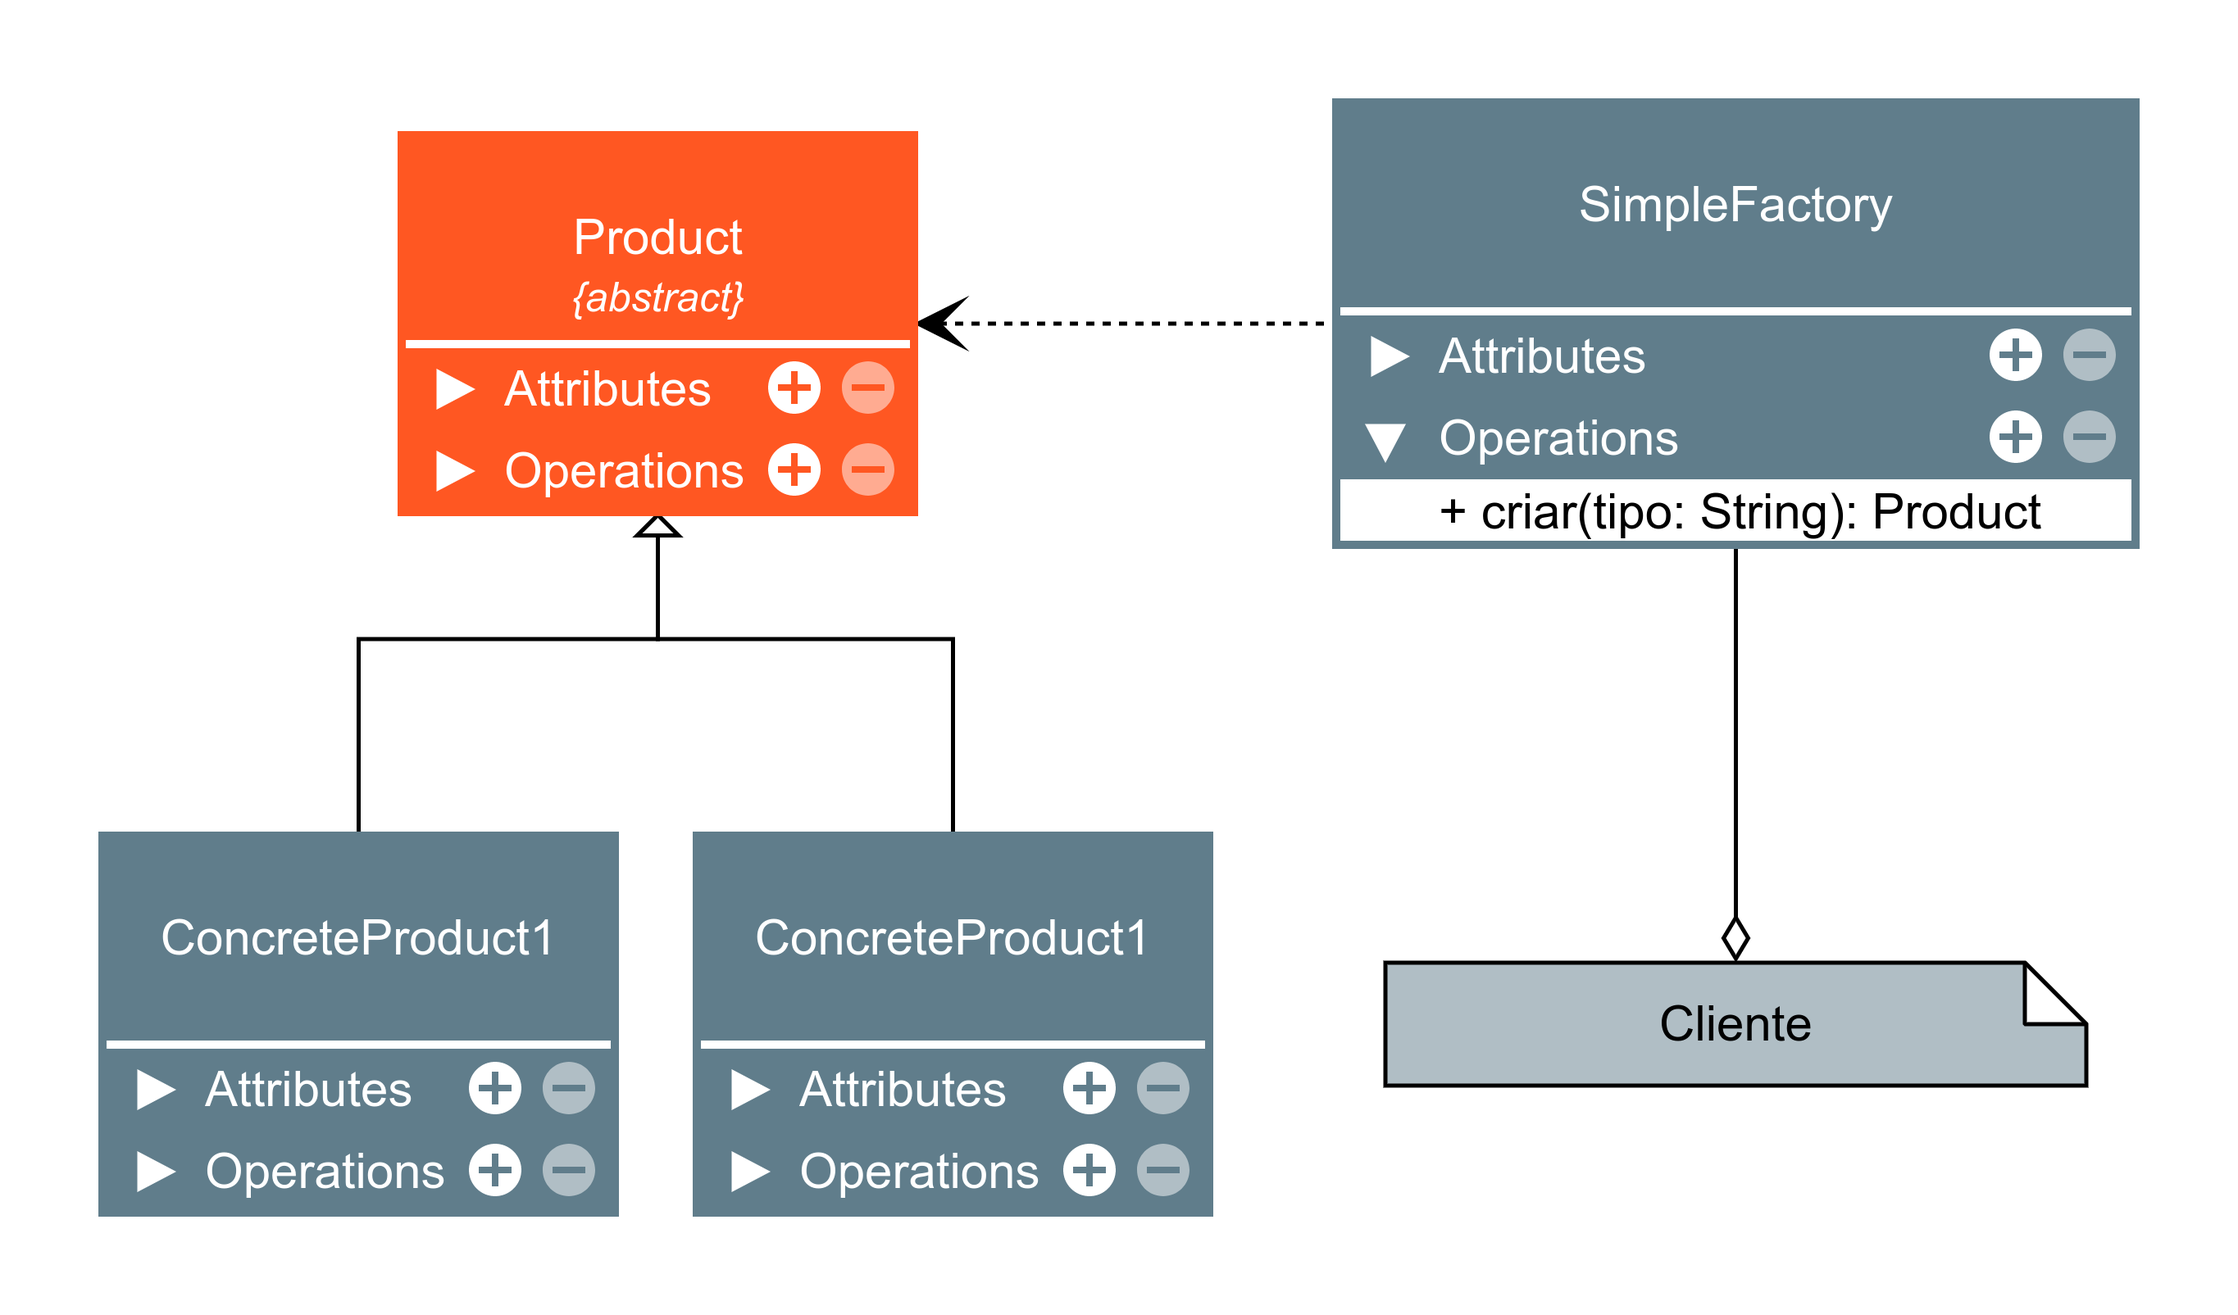
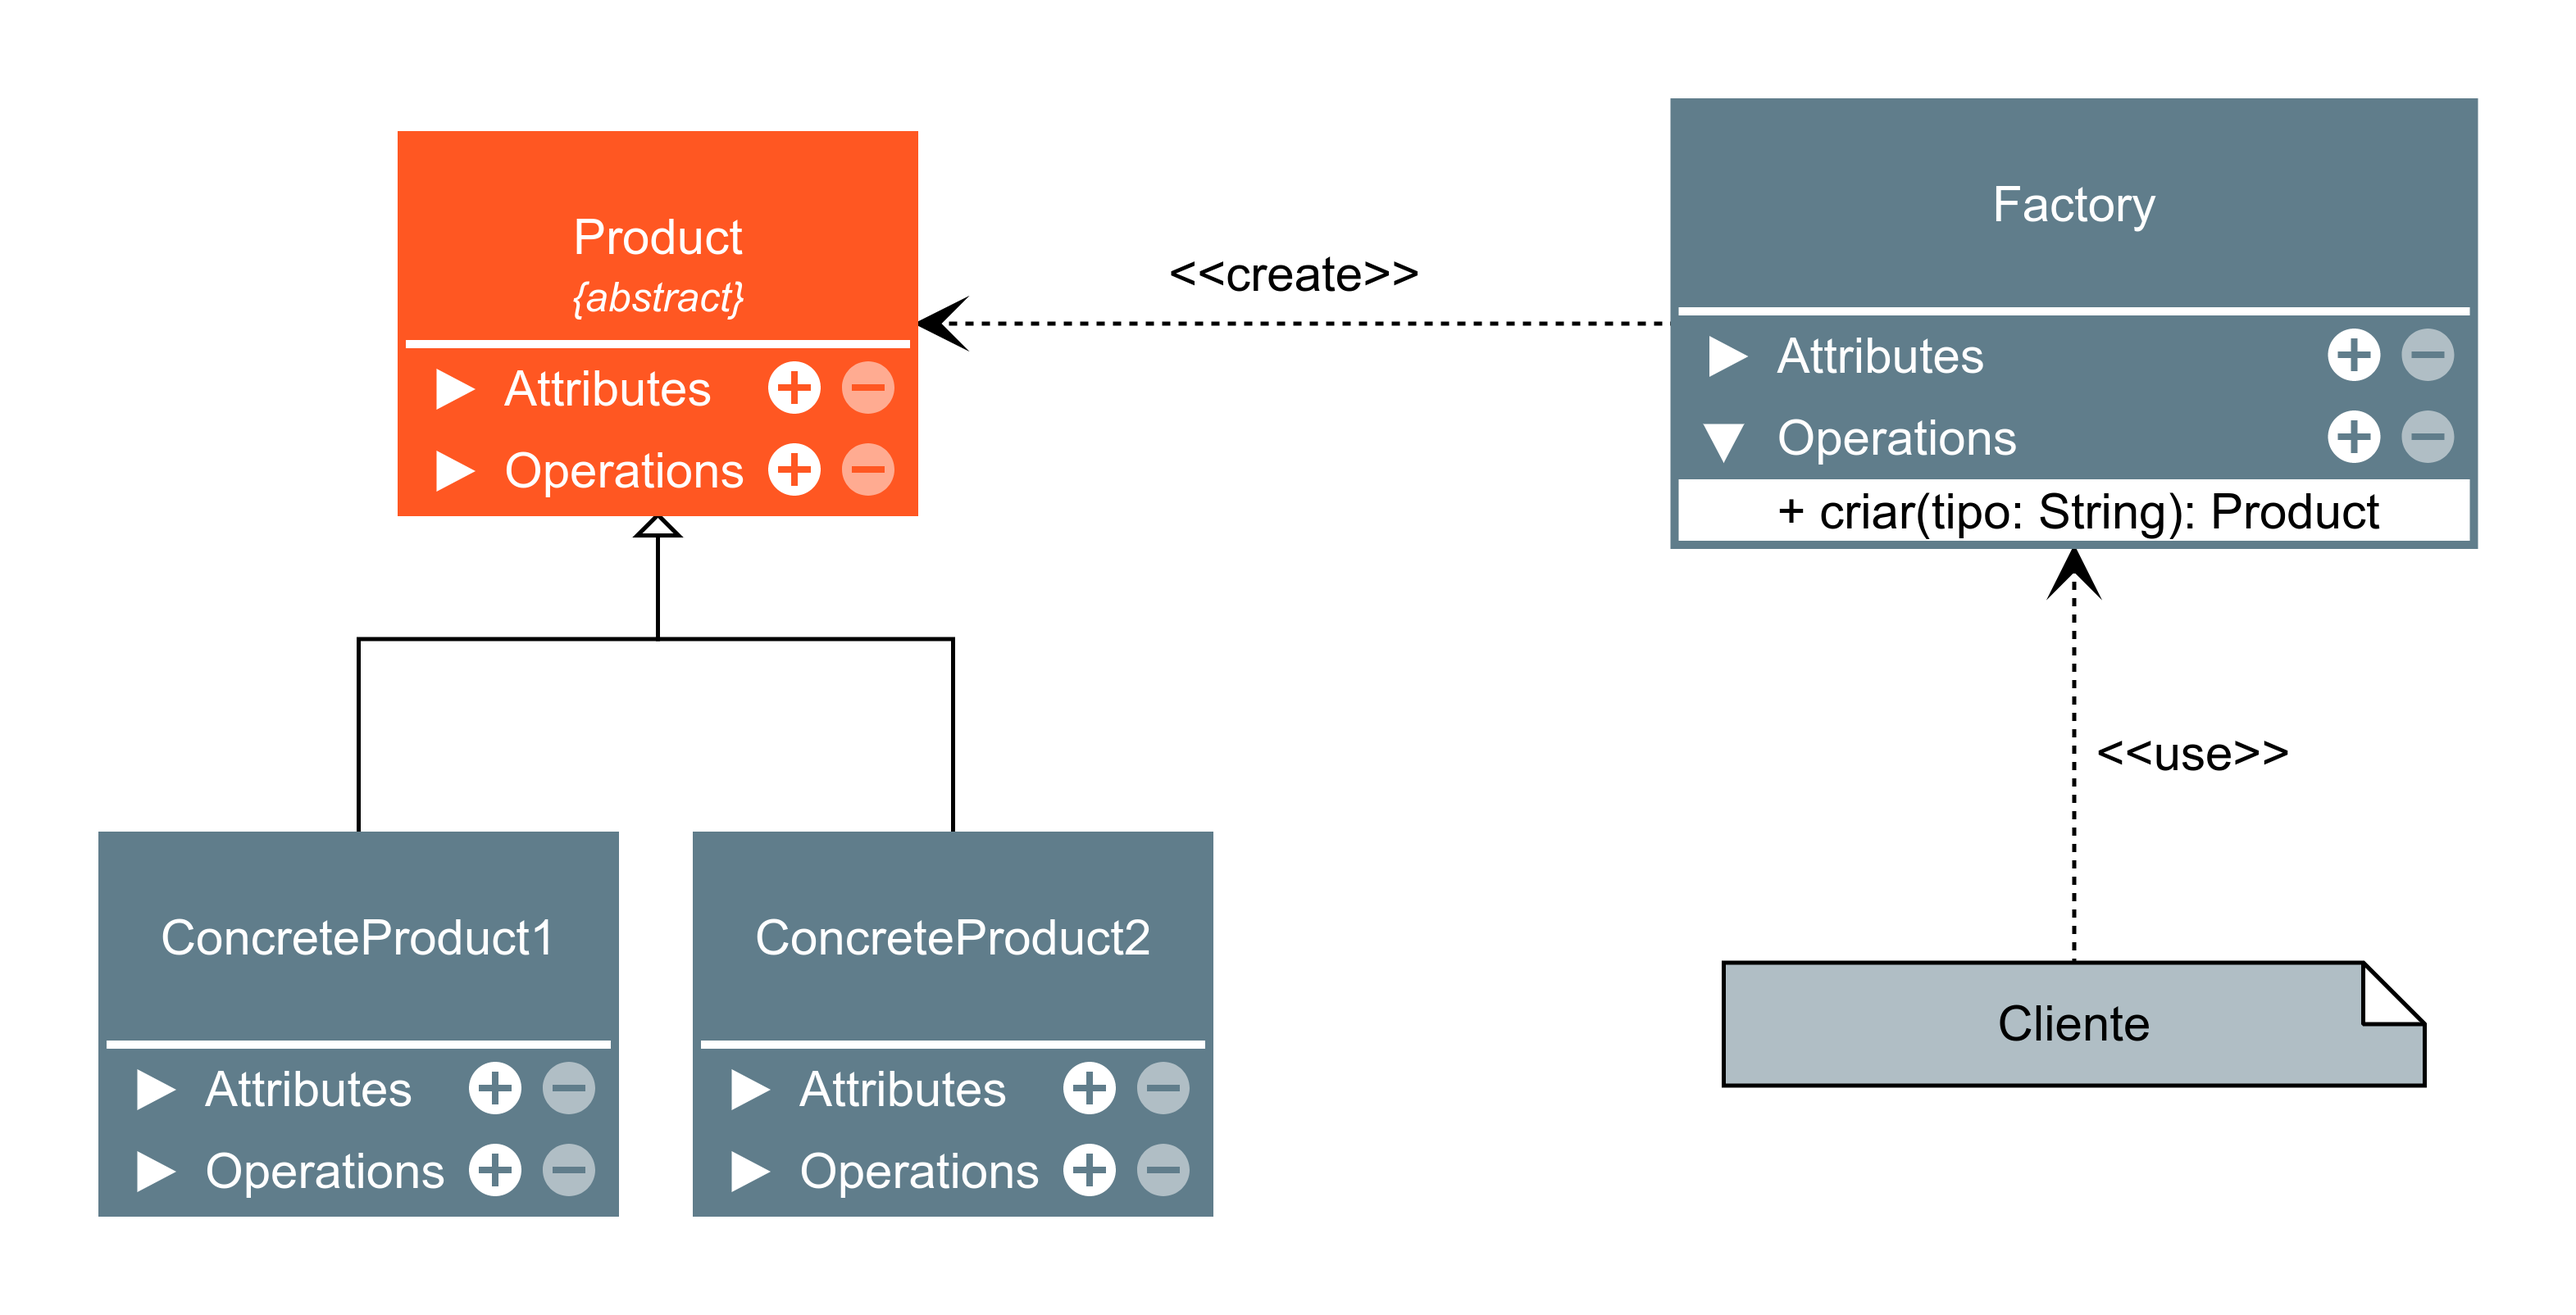
Simple Factory

diff --git a/factories/simple_factory.py b/factories/simple_factory.py
@@ -13,55 +13,10 @@ Vantagens:
     fábrica pode retornar um objeto já criado para o cliente, ao invés de criar
     novos objetos sempre que o cliente precisar.
 
-    Simple factory não é considerada padrão de projeto, mas geralmente livros
-    trazem este projeto como uma base para o entendimento de Factory Method e
-    Abstract factory.
+Vamos ver 2 tipos de Factory da GoF: Factory method e Abstract Factory
 
-Vamos ver 3 tipos de Factory: Simple factory (não GoF), Factory method e
-Abstract Factory
+Nessa aula:
+Simple Factory <- Uma espécie de Factory Method parametrizado
+Simple Factory pode não ser considerado um padrão de projeto por si só
+Simple Factory pode quebrar princípios do SOLID
 """
-from abc import ABC, abstractmethod
-
-
-class Impressora(ABC):
-    @abstractmethod
-    def imprimir(self): pass
-
-
-class ImpressoraMultifuncional(Impressora):
-    def imprimir(self):
-        print('Impressora Multifuncional está imprimindo')
-
-
-class ImpressoraSimples(Impressora):
-    def imprimir(self):
-        print('Impressora Simples está imprimindo')
-
-
-class ImpressoraAvancada(Impressora):
-    def imprimir(self):
-        print('Impressora Avançada está imprimindo')
-
-
-class ImpressoraFactory:
-    @staticmethod
-    def criar(tipo):
-        if tipo == 'multifuncional':
-            return ImpressoraMultifuncional()
-        if tipo == 'simples':
-            return ImpressoraSimples()
-        if tipo == 'avancada':
-            return ImpressoraAvancada()
-        assert 0, 'Impressora não foi encontrada'
-
-
-if __name__ == "__main__":
-    impressora_multifuncional = ImpressoraFactory.criar('multifuncional')
-    impressora_simples = ImpressoraFactory.criar('simples')
-    impressora_avancada = ImpressoraFactory.criar('avancada')
-
-    impressoras = [impressora_multifuncional,
-                   impressora_simples, impressora_avancada]
-
-    for imp in impressoras:
-        imp.imprimir()
